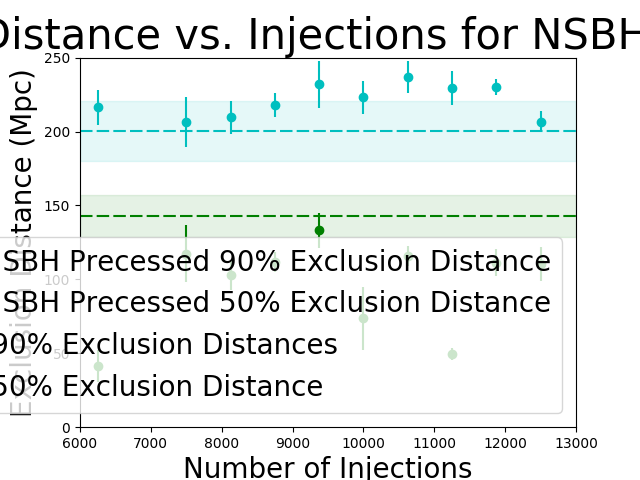
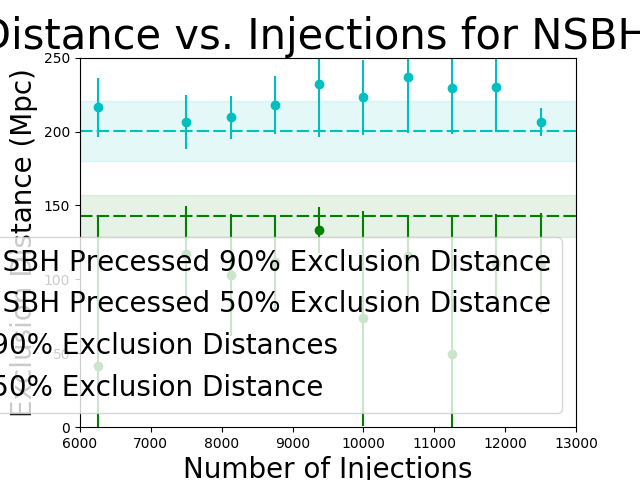
antenna factor linRegression and new systematic error bars to inj plots

diff --git a/injectionPlot.py b/injectionPlot.py
@@ -1,6 +1,15 @@
 import matplotlib.pyplot as plt
 import numpy as np
 
+def errorCalc(mean, std, DIST):
+	dummyList = []
+	for i in range(len(mean)):
+		d = mean[i] - DIST
+		e = std[i]
+		newErr = (d**2+e**2)**(1./2.)
+		dummyList.append(newErr)
+	return dummyList
+
 #test
 ################## NSNS #####################
 # NSNS values 90% Exclusion Distance
@@ -93,24 +102,30 @@ nsnsInj = 4000
 nsbhAlignInj = 12500
 nsbhPrecessInj = 12500
 
-################ Plotting #################
+################ Values #################
 nsns_90_mean = [np.mean(inj100NSNS_90), np.mean(inj90NSNS_90), np.mean(inj80NSNS_90), np.mean(inj70NSNS_90), np.mean(inj60NSNS_90), np.mean(inj50NSNS_90), np.mean(inj40NSNS_90), np.mean(inj30NSNS_90), np.mean(inj20NSNS_90)]
 nsns_90_std = [11.063479404361873, 3.700565758284695, 3.6692927735743956, 6.65511020741, 10.6678190601, 9.72355054478, 6.34528534050268, 5.865938840354687, 10.64974986085202]
+nsns_90_err = errorCalc(nsns_90_mean, nsns_90_std, np.mean(injcontrolNSNS_90))
 nsnsNumInj_90 = [1*nsnsInj, 0.9*nsnsInj, 0.8*nsnsInj, 0.7*nsnsInj, 0.6*nsnsInj, 0.5*nsnsInj, 0.4*nsnsInj, 0.3*nsnsInj, 0.2*nsnsInj]
 nsns_50_mean = [np.mean(inj100NSNS_50), np.mean(inj90NSNS_50), np.mean(inj80NSNS_50), np.mean(inj70NSNS_50), np.mean(inj60NSNS_50), np.mean(inj50NSNS_50), np.mean(inj40NSNS_50), np.mean(inj30NSNS_50), np.mean(inj20NSNS_50), np.mean(inj10NSNS_50)]
 nsns_50_std = [6.738043973967401, 4.711676157772397, 5.301722593946216, 10.7553460849, 4.97605303394, 33.5169350083, 4.829679075135576, 4.176415388028511, 5.89478930396605, 3.341110625402934]
+nsns_50_err = errorCalc(nsns_50_mean, nsns_50_std, np.mean(injcontrolNSNS_50))
 nsnsNumInj_50 = [1*nsnsInj, 0.9*nsnsInj, 0.8*nsnsInj, 0.7*nsnsInj, 0.6*nsnsInj, 0.5*nsnsInj, 0.4*nsnsInj, 0.3*nsnsInj, 0.2*nsnsInj, 0.1*nsnsInj]
 
 nsbhAlign_90_mean = [np.mean(inj100NSBHAlign_90), np.mean(inj95NSBHAlign_90), np.mean(inj90NSBHAlign_90), np.mean(inj85NSBHAlign_90), np.mean(inj80NSBHAlign_90), np.mean(inj75NSBHAlign_90), np.mean(inj70NSBHAlign_90), np.mean(inj65NSBHAlign_90), np.mean(inj60NSBHAlign_90), np.mean(inj50NSBHAlign_90)]
 nsbhAlign_90_std = [13.3514417736463, 6.763015800603423, 10.816517042851002, 11.343711654851754, 10.276219128, 31.0497580382, 9.75870059841632, 14.110640287440887, 7.52688093747872, 9.27830349471]
+nsbhAlign_90_err = errorCalc(nsbhAlign_90_mean, nsbhAlign_90_std, np.mean(injcontrolNSBHAlign_90))
 nsbhAlign_50_mean = [np.mean(inj100NSBHAlign_50), np.mean(inj95NSBHAlign_50), np.mean(inj90NSBHAlign_50), np.mean(inj85NSBHAlign_50), np.mean(inj80NSBHAlign_50), np.mean(inj75NSBHAlign_50), np.mean(inj70NSBHAlign_50), np.mean(inj65NSBHAlign_50), np.mean(inj60NSBHAlign_50), np.mean(inj50NSBHAlign_50)]
 nsbhAlign_50_std = [7.761793772040417, 12.684935353607644, 9.207894303406931, 10.026442593547355, 9.53740464565, 11.5537125999, 6.56585706910925, 17.679110365465252, 41.704807443853305, 99.1745945704]
+nsbhAlign_50_err = errorCalc(nsbhAlign_50_mean, nsbhAlign_50_std, np.mean(injcontrolNSBHAlign_50))
 nsbhAlignNumInj = [1*nsbhAlignInj, 0.95*nsbhAlignInj, 0.9*nsbhAlignInj, 0.85*nsbhAlignInj, 0.8*nsbhAlignInj, 0.75*nsbhAlignInj, 0.7*nsbhAlignInj, 0.65*nsbhAlignInj, 0.6*nsbhAlignInj, 0.5*nsbhAlignInj]
 
 nsbhPrecess_90_mean = [np.mean(inj100NSBHPrecess_90), np.mean(inj95NSBHPrecess_90), np.mean(inj90NSBHPrecess_90), np.mean(inj85NSBHPrecess_90), np.mean(inj80NSBHPrecess_90), np.mean(inj75NSBHPrecess_90), np.mean(inj70NSBHPrecess_90), np.mean(inj65NSBHPrecess_90), np.mean(inj60NSBHPrecess_90), np.mean(inj50NSBHPrecess_90)]
 nsbhPrecess_90_std = [11.380450987844023, 9.288725373870486, 3.9526855403372867, 6.5316522005021405, 21.5440835645, 12.0579867157, 6.8773294132981055, 10.118444773002604, 19.30353658535733, 10.8410448196]
+nsbhPrecess_90_err = errorCalc(nsbhPrecess_90_mean, nsbhPrecess_90_std, np.mean(injcontrolNSBHPrecess_90))
 nsbhPrecess_50_mean = [np.mean(inj100NSBHPrecess_50), np.mean(inj95NSBHPrecess_50), np.mean(inj90NSBHPrecess_50), np.mean(inj85NSBHPrecess_50), np.mean(inj80NSBHPrecess_50), np.mean(inj75NSBHPrecess_50), np.mean(inj70NSBHPrecess_50), np.mean(inj65NSBHPrecess_50), np.mean(inj60NSBHPrecess_50), np.mean(inj50NSBHPrecess_50)]
 nsbhPrecess_50_std = [7.079303364544146, 5.317147012680572, 11.604404282417994, 10.925635874610593, 11.0296778531, 15.9578893375, 8.399006032298338, 11.222149670766692, 17.063995734044685, 11.84361285]
+nsbhPrecess_50_err = errorCalc(nsbhPrecess_50_mean, nsbhPrecess_50_std, np.mean(injcontrolNSBHPrecess_50))
 nsbhPrecessNumInj = [1*nsbhPrecessInj, 0.95*nsbhPrecessInj, 0.9*nsbhPrecessInj, 0.85*nsbhPrecessInj, 0.8*nsbhPrecessInj, 0.75*nsbhPrecessInj, 0.7*nsbhPrecessInj, 0.65*nsbhPrecessInj, 0.6*nsbhPrecessInj, 0.5*nsbhPrecessInj]
 
 # NSNS Plot
@@ -118,11 +133,11 @@ x1 = [0,4200]
 figNSNS=plt.figure()
 axNSNS=figNSNS.gca()
 
-axNSNS.errorbar(nsnsNumInj_90, nsns_90_mean, yerr=nsns_90_std, fmt='o', color='r', label='NSNS 90% Exclusion Distances')
+axNSNS.errorbar(nsnsNumInj_90, nsns_90_mean, yerr=nsns_90_err, fmt='o', color='r', label='NSNS 90% Exclusion Distances')
 line90 = axNSNS.axhline(np.mean(injcontrolNSNS_90), dashes=[6,2], label='GRB190420981 NSNS 90% Exclusion Distance', color='r')
 axNSNS.fill_between(x1, 0.1*np.mean(injcontrolNSNS_90)+np.mean(injcontrolNSNS_90), np.mean(injcontrolNSNS_90) - 0.1*np.mean(injcontrolNSNS_90), alpha=0.1, color='r')
 
-axNSNS.errorbar(nsnsNumInj_50, nsns_50_mean, yerr=nsns_50_std, fmt='o', color='b', label='NSNS 50% Exclusion Distance')
+axNSNS.errorbar(nsnsNumInj_50, nsns_50_mean, yerr=nsns_50_err, fmt='o', color='b', label='NSNS 50% Exclusion Distance')
 line50 = axNSNS.axhline(np.mean(injcontrolNSNS_50), dashes=[6,2], label='GRB190420981 NSNS 50% Exclusion Distance', color='b')
 axNSNS.fill_between(x1, 0.1*np.mean(injcontrolNSNS_50)+np.mean(injcontrolNSNS_50), np.mean(injcontrolNSNS_50) - 0.1*np.mean(injcontrolNSNS_50), alpha=0.1, color='b')
 
@@ -139,11 +154,11 @@ x2 = [6000,13000]
 figNSBHAlign=plt.figure()
 axNSBHAlign=figNSBHAlign.gca()
 
-axNSBHAlign.errorbar(nsbhAlignNumInj, nsbhAlign_90_mean, yerr=nsbhAlign_90_std, fmt='o', color='k', label='NSBH Aligned 90% Exclusion Distances')
+axNSBHAlign.errorbar(nsbhAlignNumInj, nsbhAlign_90_mean, yerr=nsbhAlign_90_err, fmt='o', color='k', label='NSBH Aligned 90% Exclusion Distances')
 line90 = axNSBHAlign.axhline(np.mean(injcontrolNSBHAlign_90), dashes=[6,2], label='GRB190420981 NSBH Aligned 90% Exclusion Distance', color='k')
 axNSBHAlign.fill_between(x2, 0.1*np.mean(injcontrolNSBHAlign_90)+np.mean(injcontrolNSBHAlign_90), np.mean(injcontrolNSBHAlign_90) - 0.1*np.mean(injcontrolNSBHAlign_90), alpha=0.1, color='k')
 
-axNSBHAlign.errorbar(nsbhAlignNumInj, nsbhAlign_50_mean, yerr=nsbhAlign_50_std, fmt='o', color='m', label='NSBH Aligned 50% Exclusion Distance')
+axNSBHAlign.errorbar(nsbhAlignNumInj, nsbhAlign_50_mean, yerr=nsbhAlign_50_err, fmt='o', color='m', label='NSBH Aligned 50% Exclusion Distance')
 line50 = axNSBHAlign.axhline(np.mean(injcontrolNSBHAlign_50), dashes=[6,2], label='GRB190420981 NSBH Aligned 50% Exclusion Distance', color='m')
 axNSBHAlign.fill_between(x2, 0.1*np.mean(injcontrolNSBHAlign_50)+np.mean(injcontrolNSBHAlign_50), np.mean(injcontrolNSBHAlign_50) - 0.1*np.mean(injcontrolNSBHAlign_50), alpha=0.1, color='m')
 
@@ -159,11 +174,11 @@ figNSBHAlign.savefig(fname='InjVsExDist_NSBHAlign.png')
 figNSBHPrecess=plt.figure()
 axNSBHPrecess=figNSBHPrecess.gca()
 
-axNSBHPrecess.errorbar(nsbhPrecessNumInj, nsbhPrecess_90_mean, yerr=nsbhPrecess_90_std, fmt='o', color='g', label='NSBH Precessed 90% Exclusion Distances')
+axNSBHPrecess.errorbar(nsbhPrecessNumInj, nsbhPrecess_90_mean, yerr=nsbhPrecess_90_err, fmt='o', color='g', label='NSBH Precessed 90% Exclusion Distances')
 line90 = axNSBHPrecess.axhline(np.mean(injcontrolNSBHPrecess_90), dashes=[6,2], label='GRB190420981 NSBH Precessed 90% Exclusion Distance', color='g')
 axNSBHPrecess.fill_between(x2, 0.1*np.mean(injcontrolNSBHPrecess_90)+np.mean(injcontrolNSBHPrecess_90), np.mean(injcontrolNSBHPrecess_90) - 0.1*np.mean(injcontrolNSBHPrecess_90), alpha=0.1, color='g')
 
-axNSBHPrecess.errorbar(nsbhPrecessNumInj, nsbhPrecess_50_mean, yerr=nsbhPrecess_50_std, fmt='o', color='c', label='NSBH Precessed 50% Exclusion Distance')
+axNSBHPrecess.errorbar(nsbhPrecessNumInj, nsbhPrecess_50_mean, yerr=nsbhPrecess_50_err, fmt='o', color='c', label='NSBH Precessed 50% Exclusion Distance')
 line50 = axNSBHPrecess.axhline(np.mean(injcontrolNSBHPrecess_50), dashes=[6,2], label='GRB190420981 NSBH Precessed 50% Exclusion Distance', color='c')
 axNSBHPrecess.fill_between(x2, 0.1*np.mean(injcontrolNSBHPrecess_50)+np.mean(injcontrolNSBHPrecess_50), np.mean(injcontrolNSBHPrecess_50) - 0.1*np.mean(injcontrolNSBHPrecess_50), alpha=0.1, color='c')
 

diff --git a/antennaVsExclusion.py b/antennaVsExclusion.py
@@ -3,6 +3,7 @@
 
 import numpy as np
 import matplotlib.pyplot as plt
+from scipy import stats
 
 # GRBs and their respective offtrial exclusion distances
 grb190407788Ex90 = [58.0739684979, 58.0739684979, 57.8582407059, 57.8367294722, 57.582307283, 57.7639043439]
@@ -113,6 +114,14 @@ exclu90Ave = [grb190407788Ex90Ave, 	grb190420981Ex90Ave, grb190427AEx90Ave, grb1
 exclu90err = [4.905496342543896,    10.1477956793,		 7.72280287013,		4.044501064003285,   2.66183424, 		  15.137899695517495,  4.800286616443967,	7.860245624562807,	 2.88789821644,	 	5.70422303245,		 15.22435768238921,	  3.7141618209116625,  24.726406802, 		5.78848165687765,	 3.3543675352,		  5.7933757022362995,2.2537173332640363,  4.19587506617	   ]
 exclu50Ave = [grb190407788Ex50Ave, 	grb190420981Ex50Ave, grb190427AEx50Ave, grb190504678Ex50Ave, grb190505051Ex50Ave, grb190510430Ex50Ave, grb190525032Ex50Ave, grb190601325Ex90Ave, grb190610AEx50Ave, grb190610834Ex50Ave, grb190830264Ex50Ave, grb190810675Ex50Ave, grb190804058Ex50Ave, grb190712018Ex50Ave, grb190630257Ex50Ave, grb190627AEx50Ave, grb190606080Ex50Ave, grb190515190Ex50Ave]
 exclu50err = [4.937500505876478,    5.04894308235,		 6.30382394612,		2.9702652116037744,  3.87321224862, 	  3.8807160072599536,  6.373142326368604,   6.836912226751878,	 2.54026431952,	 	3.66778590264,		 6.405721498179706,	  4.688381167905543,   11.4561972396,		6.170499188231567,	 2.32210715364,		  2.1957950900444163,3.4492449785291357,  3.06047056018	   ]
+slope1_90, intercept1_90, r1_90, p1_90, stdErr1_90 = stats.linregress(antenna1Best, exclu90Ave)
+slope2_90, intercept2_90, r2_90, p2_90, stdErr2_90 = stats.linregress(antenna2Best, exclu90Ave)
+slope1_50, intercept1_50, r1_50, p1_50, stdErr1_50 = stats.linregress(antenna1Best, exclu50Ave)
+slope2_50, intercept2_50, r2_50, p2_50, stdErr2_50 = stats.linregress(antenna2Best, exclu50Ave)
+print "r-squared (antenna1xExclu90): ", r1_90**2
+print "r-squared (antenna2xExclu90): ", r2_90**2
+print "r-squared (antenna1xExclu50): ", r1_50**2
+print "r-squared (antenna2xExclu50): ", r2_50**2
 
 # Plots
 fig90, ax90 = plt.subplots()
